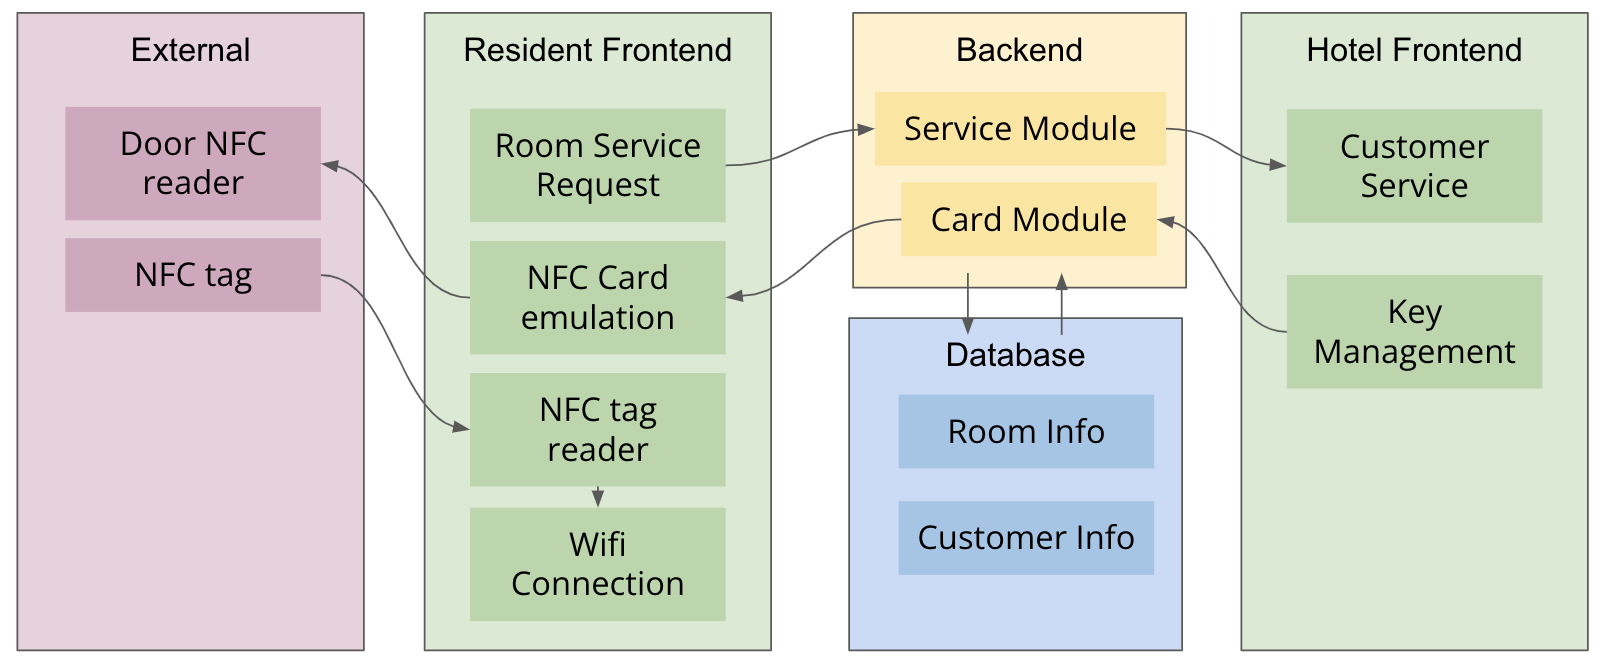
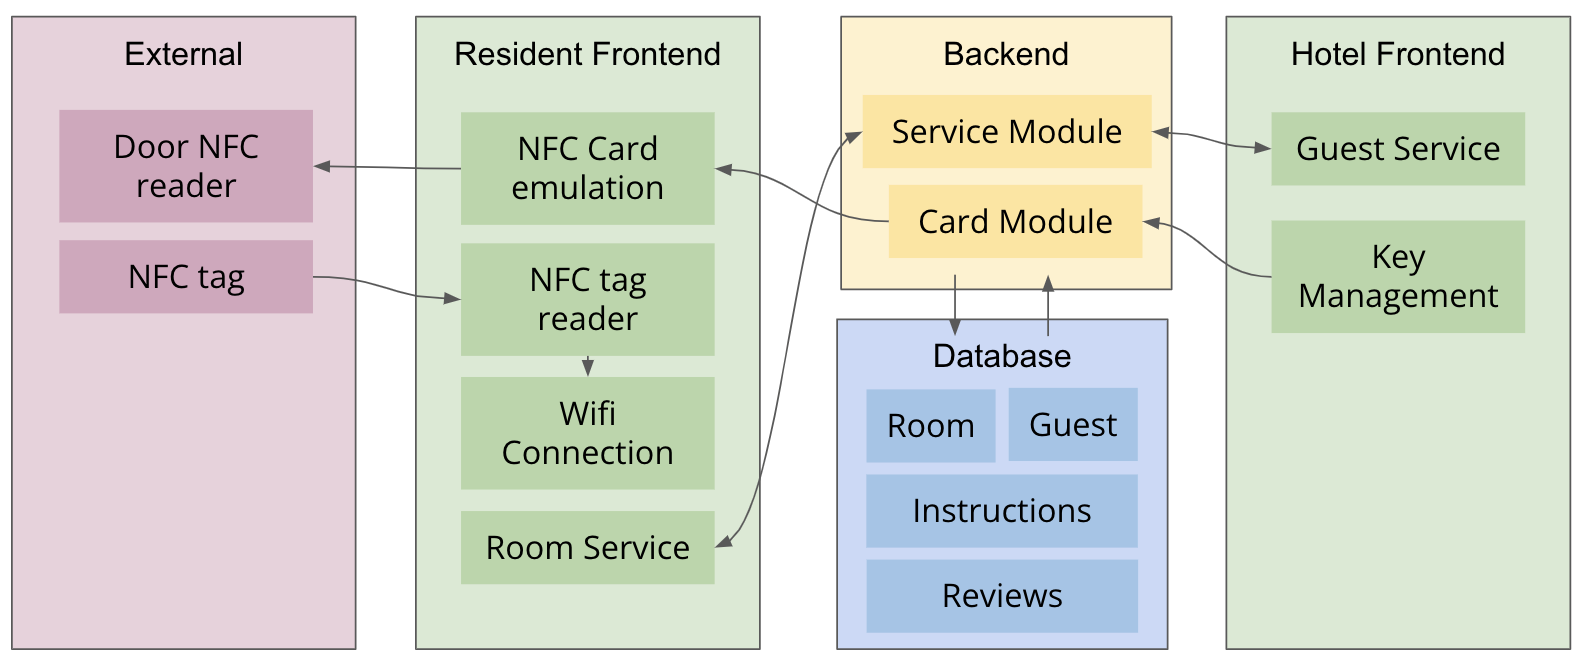
revised engine architechture and finalized

diff --git a/README.md b/README.md
@@ -15,7 +15,7 @@
 ## Getting Started
 KeyWorld is an app that applies NFC technology to solve the hotel check-in related issues. We help hotels and their guests to easily make the room a home. 
 
-## Model and Engine (15% of Project Documentation grade)
+## Model and Engine
 ### User Story Map
 The following figure shows our user storymap.
 ![Storymap](/assets/storymap.png)
@@ -43,15 +43,15 @@ When a guest wants to connect to the hotel wifi with the NFC tag, the NFC card r
 When a guest wants to read the room instruction with the NFC tag, the NFC card reader will be activated. Once the phone catched the NFC signal with the instruction information, the app will send a request to the service module in the back-end, which will then fetch the detailed inistruction and send it back to the guest's application.
 
 **Room service**
-Guests can request room service through the room service request block on the resident front-end, and the request will be sent to the customer service block on the hotel front-end via the service module on the back-end. Once the hotel receives the request, it can perform the appropriate service. 
+Guests can request room service through the room service request block on the resident front-end, and the request will be sent to the customer service block on the hotel front-end via the service module on the back-end. Once the hotel receives the request, it can perform the appropriate service. After the service, guests can write review for the service and send feedback to the hotel. Besides, guests can also chat with the hotel.
 
-## APIs and Controller (15% of Project Documentation grade)
+## APIs and Controller 
 ### RoomUpload
 **Request Parameters**
 | Key        | Location | Type   | Description      |
 | ---------- | -------- | ------ | ---------------- |
 | `RoomID` | JSON | Int | Room ID |
-| `Key` | JSON | Int | The key information of the room |
+| `Key` | JSON | String | The key information of the room |
 
 **Response Codes**
 | Code              | Description            |
@@ -60,10 +60,9 @@ Guests can request room service through the room service request block on the re
 | `400 Bad Request` | Invalid parameters |
 
 **Returns** 
-TODO
 | Key        | Location       | Type   | Description  |
 | ---------- | -------------- | ------ | ------------ |
-| `isFound` | JSON | Boolean | Weather the guest is found in the database|
+| `isSuccess` | JSON | Boolean | Whether the guest is found in the database|
 
 ### GuestUpload
 **Request Parameters**
@@ -72,8 +71,8 @@ TODO
 | `RoomID` | JSON | Int | Room ID |
 | `GuestFirstName` | JSON | String | Guest's first name |
 | `GuestLastName` | JSON | String | Guest's last name |
-| `AvailabilityStartTime` | JSON | Date(TODO) | When the key starts the availability |
-| `AvailabilityEndTime` | JSON | Date(TODO) | When the key ends the availability |
+| `AvailabilityStartTime` | JSON | Timestamp | When the key starts the availability |
+| `AvailabilityEndTime` | JSON | Timestamp | When the key ends the availability |
 
 **Response Codes**
 | Code              | Description            |
@@ -82,10 +81,9 @@ TODO
 | `400 Bad Request` | Invalid parameters |
 
 **Returns** 
-TODO
 | Key        | Location       | Type   | Description  |
 | ---------- | -------------- | ------ | ------------ |
-| `isFound` | JSON | Boolean | Weather the guest is found in the database|
+| `isFound` | JSON | Boolean | Whether the guest is found in the database|
 
 **Example**
 
@@ -105,10 +103,10 @@ TODO
 **Returns**
 | Key        | Location       | Type   | Description  |
 | ---------- | -------------- | ------ | ------------ |
-| `isFound` | JSON | Boolean | Weather the guest is found in the database|
-| `VirtualKey` | JSON | TODO | The virtual key information for the card emulator |
-| `AvailabilityStartTime` | JSON | Date(TODO) | When the key starts the availability |
-| `AvailabilityEndTime` | JSON | Date(TODO) | When the key ends the availability |
+| `isFound` | JSON | Boolean | Whether the guest is found in the database|
+| `VirtualKey` | JSON | String | The virtual key information for the card emulator |
+| `AvailabilityStartTime` | JSON | Timestamp | When the key starts the availability |
+| `AvailabilityEndTime` | JSON | Timestamp | When the key ends the availability |
 
 ### InstructionFetch
 **Request Parameters**
@@ -122,10 +120,10 @@ TODO
 | `200 OK`          | Succeed |
 | `400 Bad Request` | Invalid parameters |
 
-**Returns** TODO
+**Returns** 
 | Key        | Location       | Type   | Description  |
 | ---------- | -------------- | ------ | ------------ |
-| `InstructionDetail` | JSON | Object(HTML)(TODO) | The detailed instruction|
+| `InstructionDetail` | JSON | String | The detailed instruction|
 
 
 **Example**
@@ -136,7 +134,7 @@ TODO
 | ---------- | -------- | ------ | ---------------- |
 | `RoomID` | JSON | Int | Guest's room ID |
 | `RequestDetail` | JSON | String | The request detail |
-| `RequestTime` | JSON | Date(TODO) | The request time |
+| `RequestTime` | JSON | Timestamp | The request time |
 
 **Response Codes**
 | Code              | Description            |
@@ -144,10 +142,10 @@ TODO
 | `200 OK`          | Succeed |
 | `400 Bad Request` | Invalid parameters |
 
-**Returns** TODO
+**Returns** 
 | Key        | Location       | Type   | Description  |
 | ---------- | -------------- | ------ | ------------ |
-| `isFound` | JSON | Boolean | Weather the guest is found in the database|
+| `isSuccess` | JSON | Boolean | Whether the request is successfully sent to the hotel front-end|
 
 
 **Example**
@@ -160,7 +158,7 @@ TODO
 | android.nfc.tech | Support Android advanced NFC functions |
 | android.nfc.cardemulation |  Support Android NFC card emulation |
 | android.net.wifi | Support Android wifi suggestions and connection |
-| TODO | Live Chat |
+| LiveChat API | Live Chat |
 
 
 ## View UI/UX
